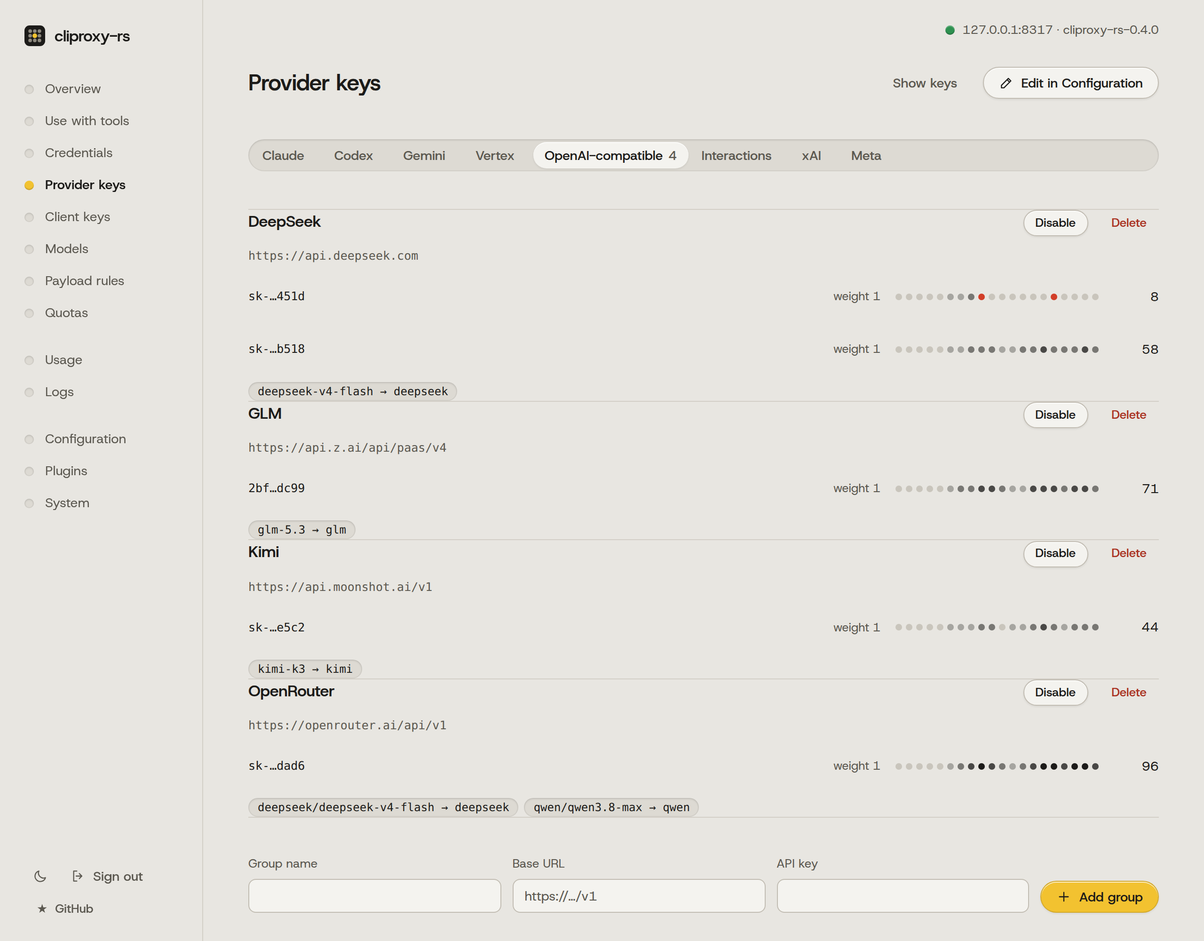
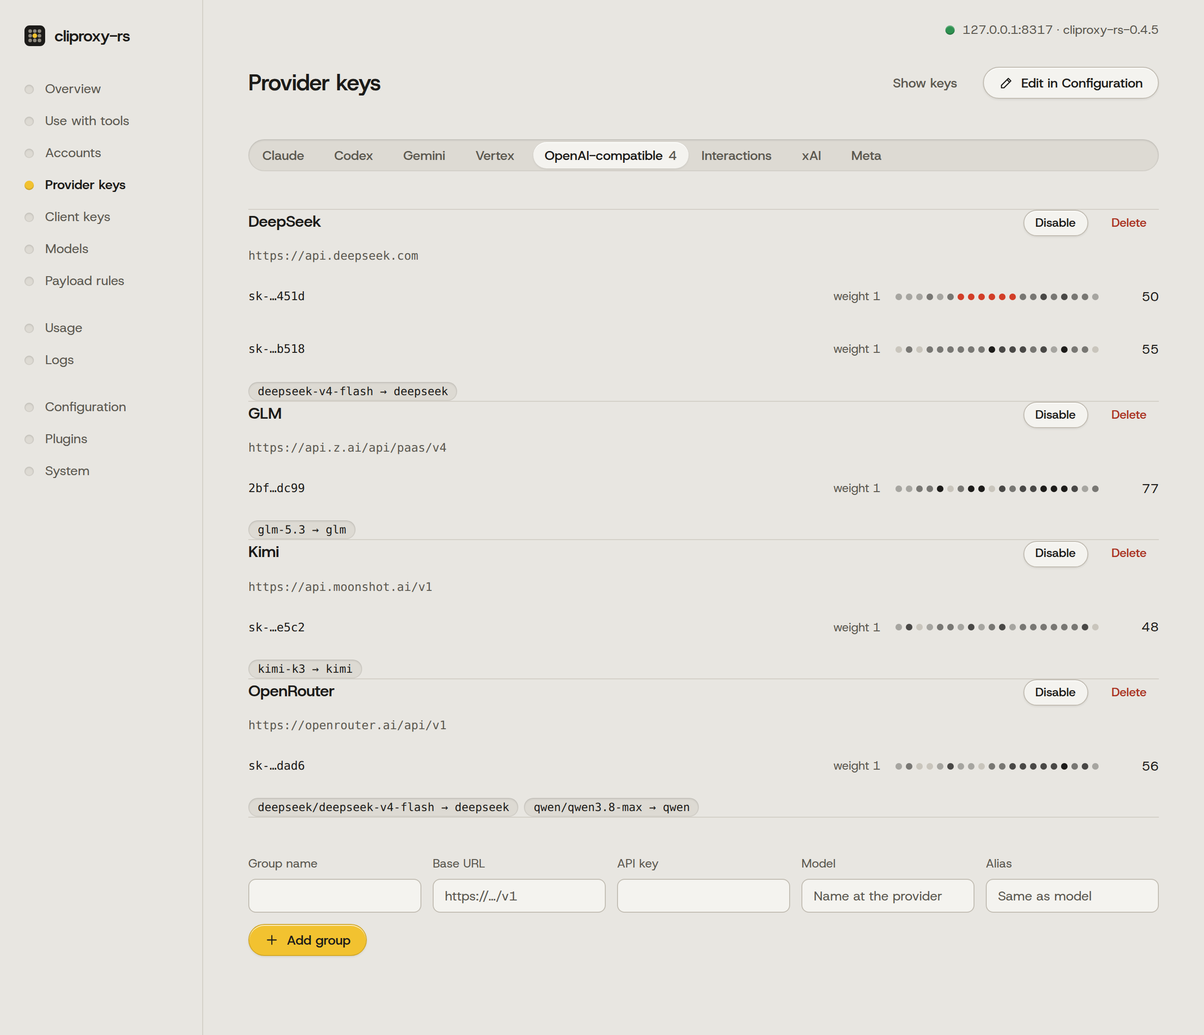
README: centered top and a dashboard quick start (#284)
The README opens with a centered header, the install command and the hero GIF,
then a four-step dashboard quick start: install, sign in, add a provider under
Provider keys, OpenAI-compatible, Add group with a model and an optional alias,
then copy the setup from Use with tools. The provider as YAML and the Codex CLI
and Claude Code setup by hand are in collapsed sections below the steps.

The dashboard pictures were retaken on 0.4.5 with demo data from a local mock;
the base URLs shown are the providers' real ones in place of the mock's. The
other-proxies table now fits the README column, with exact client API paths in
a note below it, and the is-compat note says the setting is on by default for
DeepSeek's and Kimi's official APIs. The long account of the demo recording
moved to docs/demo/README.md.

diff --git a/README.md b/README.md
@@ -1,29 +1,69 @@
-# cliproxy-rs
+<h1 align="center">cliproxy-rs</h1>
 
-[![CI](https://github.com/vayungodara/cliproxy-rs/actions/workflows/ci.yml/badge.svg)](https://github.com/vayungodara/cliproxy-rs/actions/workflows/ci.yml)
-[![Release](https://img.shields.io/github/v/release/vayungodara/cliproxy-rs)](https://github.com/vayungodara/cliproxy-rs/releases/latest)
-[![Crates.io](https://img.shields.io/crates/v/cliproxy)](https://crates.io/crates/cliproxy)
-[![Homebrew](https://img.shields.io/badge/brew-vayungodara%2Ftap%2Fcliproxy--rs-orange)](https://github.com/vayungodara/homebrew-tap)
-[![Stars](https://img.shields.io/github/stars/vayungodara/cliproxy-rs)](https://github.com/vayungodara/cliproxy-rs/stargazers)
+<p align="center">One local endpoint that lets Codex CLI and Claude Code use DeepSeek, GLM, Kimi, OpenRouter and other API keys, with API translation and failover between keys.</p>
 
-One local endpoint that lets Codex CLI and Claude Code use DeepSeek, GLM, Kimi, OpenRouter and other API keys, with API translation and failover between keys. It is a single Rust binary and reads CLIProxyAPI's `config.yaml`.
+<p align="center">
+  <a href="https://github.com/vayungodara/cliproxy-rs/actions/workflows/ci.yml"><img src="https://github.com/vayungodara/cliproxy-rs/actions/workflows/ci.yml/badge.svg" alt="CI"></a>
+  <a href="https://github.com/vayungodara/cliproxy-rs/releases/latest"><img src="https://img.shields.io/github/v/release/vayungodara/cliproxy-rs" alt="Release"></a>
+  <a href="https://crates.io/crates/cliproxy"><img src="https://img.shields.io/crates/v/cliproxy" alt="Crates.io"></a>
+  <a href="https://github.com/vayungodara/homebrew-tap"><img src="https://img.shields.io/badge/brew-vayungodara%2Ftap%2Fcliproxy--rs-orange" alt="Homebrew"></a>
+  <a href="https://github.com/vayungodara/cliproxy-rs/stargazers"><img src="https://img.shields.io/github/stars/vayungodara/cliproxy-rs" alt="Stars"></a>
+</p>
 
-[Quick start](#quick-start) · [Providers](#supported-providers) · [Tools](#use-it-with-your-tools) · [How it compares](#how-it-compares) · [Documentation](#documentation)
+<p align="center">
+  <a href="#quick-start">Quick start</a> · <a href="#supported-providers">Providers</a> · <a href="#use-it-with-your-tools">Tools</a> · <a href="#how-it-compares">How it compares</a> · <a href="#documentation">Documentation</a>
+</p>
 
 ```sh
 curl -fsSL https://raw.githubusercontent.com/vayungodara/cliproxy-rs/master/install.sh | sh
 ```
 
-That is for macOS and Linux, and it needs no `sudo` and no Rust toolchain. For Windows, Homebrew, Scoop, Cargo and Docker, see [Other ways to install](#other-ways-to-install).
+<p align="center">The command is for macOS and Linux and needs no <code>sudo</code> and no Rust toolchain. Windows, Homebrew, Scoop, Cargo and Docker are under <a href="#other-ways-to-install">Other ways to install</a>.</p>
+
+<p align="center">
+  <a href="https://github.com/vayungodara/cliproxy-rs/releases/latest"><img src="https://github.com/vayungodara/cliproxy-rs/raw/master/docs/img/hero.gif" alt="cliproxy-rs on 127.0.0.1:8317 translates a Codex CLI Responses request to Chat Completions for DeepSeek and moves it to a second key when the first answers 429. Claude Code's Messages requests reach GLM the same way. Kimi and OpenRouter are the other providers shown." width="880"></a>
+</p>
+
+## What is this?
+
+cliproxy-rs is a Rust rewrite of [CLIProxyAPI](https://github.com/router-for-me/CLIProxyAPI). It reads the same `config.yaml` and credential formats and implements the client routes and v8 Management API. Parity with CLIProxyAPI v8.0.35 is partial; [PARITY.md](https://github.com/vayungodara/cliproxy-rs/blob/master/docs/PARITY.md) has the counts and the [upstream changes since then](https://github.com/vayungodara/cliproxy-rs/blob/master/docs/PARITY.md#upstream-changes-since-v8035). CLIProxyAPI's README lists cliproxy-rs under [More choices](https://github.com/router-for-me/CLIProxyAPI#more-choices), its list of ports and projects inspired by it (read on 18 November 2026).
+
+- **API translation.** Codex CLI sends Responses requests, and the proxy sends Chat Completions to providers that only offer those, tool calls included. Claude Code's Messages requests are translated to the selected provider's format the same way.
+- **Several keys and providers behind one model name.** By default, a 429 cools that key for the model and the request moves to another ready key or provider with the same alias.
+- **One binary with the dashboard built in.** The dashboard shows provider keys and their traffic, request history and tool settings.
 
 ## Quick start
 
-1. Run the install command above. It checks the release checksum, starts the proxy on `127.0.0.1`, prints the dashboard URL and opens it when it can. The port is 8317, or the next free one up to 8336 when something else has it; `~/.cliproxy-rs/keys.env` records it as `CLIPROXY_PORT`.
-2. Add a provider and its models to `~/.cliproxy-rs/config.yaml`. Copy a provider block from [API keys](#api-keys-codex-cli-and-mixed-providers) and fill in the key and the model ID. The proxy reloads the file when you save it. An OpenAI-compatible entry needs a `models` list, and the dashboard's Provider keys form saves a name, base URL and key without one. In the dashboard, the place for the block is Configuration, then Edit YAML.
-3. Sign in to the dashboard with `CLIPROXY_MANAGEMENT_KEY` from `keys.env`, open **Use with tools** and check that your model alias is in its Model list.
-4. Give your tool the settings below and run it. The shell blocks read the port and the client key from the same `keys.env`, so the key is never sent to another server on 8317.
+1. Run the install command at the top. It checks the release checksum, starts the proxy on `127.0.0.1`, prints the dashboard URL and opens it when it can. The port is 8317, or the next free one up to 8336 when something else has it; `~/.cliproxy-rs/keys.env` records it as `CLIPROXY_PORT`, next to your keys.
+2. Open the dashboard and sign in with `CLIPROXY_MANAGEMENT_KEY` from `keys.env`.
+3. Add a provider with a model. Open **Provider keys**, choose **OpenAI-compatible** and fill in the form: a group name, the provider's base URL, your API key and the Model, which is the model's name at the provider. Alias is optional. It is the name your tools ask for, and it is the same as the model when you leave it empty. Then press **Add group**. Base URLs for DeepSeek, GLM, Kimi and OpenRouter are listed under [API keys](#api-keys-codex-cli-and-mixed-providers).
+4. Open **Use with tools**, pick the model, choose Claude Code or Codex CLI and copy the setup. It has the address you opened the dashboard at, your client key and the selected model filled in. Claude Code gets one block for your shell, which sets the variables and starts `claude`. Codex CLI gets two blocks: one for `~/.codex/config.toml`, and one `export` line to run before `codex`. For these two tools, Copy is disabled while no model is selected.
 
-The Codex CLI and Claude Code snippets on the **Use with tools** page leave the model out, so start from these. For Codex CLI and a provider whose model alias is `deepseek`, `~/.codex/config.toml` looks like this. In `base_url`, use the `CLIPROXY_PORT` value from `keys.env`; it is 8317 unless the installer found that port taken:
+<details>
+<summary>Add the provider in YAML instead</summary>
+
+Add this block to `~/.cliproxy-rs/config.yaml` and keep the rest of the file, or do the same in the dashboard under Configuration, then Edit YAML. The proxy reloads the file when you save it. An OpenAI-compatible entry serves only the models in its `models` list.
+
+```yaml
+api-keys:
+  openai-compatibility:
+    - name: deepseek
+      base-url: "https://api.deepseek.com"
+      keys:
+        - api-key: "<deepseek-api-key>"
+      models:
+        - name: "<deepseek-model-id>"
+          alias: "deepseek"
+```
+
+[API keys](#api-keys-codex-cli-and-mixed-providers) has a block with two providers and the base URLs of the others. YAML also takes what the form has no field for, such as the `headers` entry that OpenCode Go needs.
+
+</details>
+
+<details>
+<summary>Set up Codex CLI by hand</summary>
+
+For a provider whose model alias is `deepseek`, `~/.codex/config.toml` looks like this. In `base_url`, use the `CLIPROXY_PORT` value from `keys.env`; it is 8317 unless the installer found that port taken:
 
 ```toml
 model = "deepseek"
@@ -36,35 +76,48 @@ env_key = "CLIPROXY_CLIENT_KEY"
 wire_api = "responses"
 ```
 
+Then start Codex with the client key from `keys.env`:
+
 ```sh
 . ~/.cliproxy-rs/keys.env
 export CLIPROXY_CLIENT_KEY
 codex
 ```
 
-Claude Code takes environment variables, and its base URL has no `/v1`. Set `ANTHROPIC_MODEL` to one of your model aliases:
+</details>
+
+<details>
+<summary>Set up Claude Code by hand</summary>
+
+Claude Code takes environment variables, and its base URL has no `/v1`. This block reads the port and the client key from `keys.env`, so it also works when the installer chose a port other than 8317. Set `ANTHROPIC_MODEL` to one of your model aliases. `ANTHROPIC_DEFAULT_HAIKU_MODEL` sends Claude Code's Haiku and background requests to the same model. Leave that line out if your proxy serves Claude's own Haiku, for example through a connected Claude account:
 
 ```sh
 . ~/.cliproxy-rs/keys.env
 export ANTHROPIC_BASE_URL="http://127.0.0.1:${CLIPROXY_PORT}"
 export ANTHROPIC_AUTH_TOKEN="$CLIPROXY_CLIENT_KEY"
 export ANTHROPIC_MODEL="<model-alias>"
+export ANTHROPIC_DEFAULT_HAIKU_MODEL="$ANTHROPIC_MODEL"
 claude
 ```
 
-<p align="center"><img src="https://github.com/vayungodara/cliproxy-rs/raw/master/docs/img/demo.gif" alt="A terminal recording. A Responses request to cliproxy-rs on 127.0.0.1:8317 returns the provider's answer, and the provider's log shows two Chat Completions requests: the first key answered 429 and the second 200. A Messages request then returns the same answer with one more request, on the second key." width="880"></p>
-
-The recording sends a Responses request, as Codex CLI does, and a Messages request, as Claude Code does, through cliproxy-rs 0.4.2. The provider is a local stand-in that answers in the Chat Completions format and returns 429 to the first key that reaches it. It was recorded with [vhs](https://github.com/charmbracelet/vhs) from [`docs/demo/demo.tape`](https://github.com/vayungodara/cliproxy-rs/blob/master/docs/demo/demo.tape), and you can record it again without an API key; the tape's header says how to keep your own settings out of it. On 18 November 2026, the same two requests through 0.4.4 gave the same provider log. [Further down](#api-keys-codex-cli-and-mixed-providers), Codex CLI runs a task on a real provider.
-
-- **API translation.** Codex CLI sends Responses requests, and the proxy sends Chat Completions to providers that only offer those, tool calls included. Claude Code's Messages requests are translated to the selected provider's format the same way.
-- **Several keys and providers behind one model name.** By default, a 429 cools that key for the model and the request moves to another ready key or provider with the same alias.
-- **One binary with the dashboard built in.** It reads CLIProxyAPI's `config.yaml` and credential files. Parity with CLIProxyAPI v8.0.35 is partial; [PARITY.md](https://github.com/vayungodara/cliproxy-rs/blob/master/docs/PARITY.md) has the counts and the [upstream changes since then](https://github.com/vayungodara/cliproxy-rs/blob/master/docs/PARITY.md#upstream-changes-since-v8035).
+</details>
 
 > **Set it up with your coding agent.** Paste this into Claude Code, Codex or Amp on the machine where the proxy should run:
 >
 > ```text
 > Install cliproxy-rs on this machine by following https://github.com/vayungodara/cliproxy-rs/blob/master/docs/AI-SETUP.md
 > ```
+
+<p align="center">
+  <picture>
+    <source media="(prefers-color-scheme: dark)" srcset="https://github.com/vayungodara/cliproxy-rs/raw/master/docs/img/overview-dark.png">
+    <img src="https://github.com/vayungodara/cliproxy-rs/raw/master/docs/img/overview-light.png" alt="The dashboard's Provider keys page on the OpenAI-compatible tab, with demo data from a local mock provider. Four groups, DeepSeek, GLM, Kimi and OpenRouter, each list their keys and a base URL, which is the provider's real one in place of the mock's. Each key has a row of twenty dots for its requests over the last 200 minutes. One DeepSeek key has a run of red dots, where the mock answered 429. Under the groups is the Add group form with five fields: Group name, Base URL, API key, Model and Alias." width="880">
+  </picture>
+</p>
+
+<p align="center"><img src="https://github.com/vayungodara/cliproxy-rs/raw/master/docs/img/demo.gif" alt="A terminal recording. A Responses request to cliproxy-rs on 127.0.0.1:8317 returns the provider's answer, and the provider's log shows two Chat Completions requests: the first key answered 429 and the second 200. A Messages request then returns the same answer with one more request, on the second key." width="880"></p>
+
+<p align="center">A Responses and a Messages request to a stand-in provider whose first key answers 429. <a href="https://github.com/vayungodara/cliproxy-rs/blob/master/docs/demo/README.md">How it was recorded</a>.</p>
 
 ## Other ways to install
 
@@ -87,23 +140,6 @@ docker run -d --name cliproxy -p 127.0.0.1:8317:8317 -v "$PWD/data:/data" ghcr.i
 Run the install command again to upgrade, or `brew upgrade cliproxy-rs` with Homebrew. Both keep your config and keys. [INSTALL.md](https://github.com/vayungodara/cliproxy-rs/blob/master/docs/INSTALL.md) has the rest: start at login, release binaries, Docker Compose and [removing it](https://github.com/vayungodara/cliproxy-rs/blob/master/docs/INSTALL.md#removing-it). [GETTING-STARTED.md](https://github.com/vayungodara/cliproxy-rs/blob/master/docs/GETTING-STARTED.md) has the longer walkthrough.
 
 Your tools use `CLIPROXY_CLIENT_KEY`, not the management key. Instead of an API key, you can connect your own account in the dashboard. Read [Accounts and provider terms](#accounts-and-provider-terms) first.
-
-## What is this?
-
-cliproxy-rs is a Rust rewrite of [CLIProxyAPI](https://github.com/router-for-me/CLIProxyAPI). It reads the same `config.yaml` and credential formats and implements the client routes and v8 Management API. The dashboard shows provider keys and their traffic, request history and tool settings. CLIProxyAPI's README lists cliproxy-rs under [More choices](https://github.com/router-for-me/CLIProxyAPI#more-choices), its list of ports and projects inspired by it (read on 18 November 2026).
-
-<p align="center">
-  <a href="https://github.com/vayungodara/cliproxy-rs/releases/latest"><img src="https://github.com/vayungodara/cliproxy-rs/raw/master/docs/img/hero.gif" alt="cliproxy-rs on 127.0.0.1:8317 translates a Codex CLI Responses request to Chat Completions for DeepSeek and moves it to a second key when the first answers 429. Claude Code's Messages requests reach GLM the same way. Kimi and OpenRouter are the other providers shown." width="880"></a>
-</p>
-
-<p align="center">
-  <picture>
-    <source media="(prefers-color-scheme: dark)" srcset="https://github.com/vayungodara/cliproxy-rs/raw/master/docs/img/overview-dark.png">
-    <img src="https://github.com/vayungodara/cliproxy-rs/raw/master/docs/img/overview-light.png" alt="The dashboard's Provider keys page with demo data: DeepSeek, GLM, Kimi and OpenRouter API keys and their requests over the last 200 minutes. Red dots mark the 429s from one DeepSeek key; the second key took those requests." width="880">
-  </picture>
-</p>
-
-The compatibility target is CLIProxyAPI v8.0.35. Parity is incomplete: the audit has 1,951 items, with 1,053 covered, 872 partial and 26 missing. [PARITY.md](https://github.com/vayungodara/cliproxy-rs/blob/master/docs/PARITY.md) defines those counts. Upstream has released newer versions since; PARITY.md lists [the changes after v8.0.35](https://github.com/vayungodara/cliproxy-rs/blob/master/docs/PARITY.md#upstream-changes-since-v8035) that cliproxy-rs does not have yet.
 
 ## Supported providers
 
@@ -157,10 +193,12 @@ Unless otherwise noted, each cell is from the project's README (18 November 2026
 | | cliproxy-rs | [CLIProxyAPI](https://github.com/router-for-me/CLIProxyAPI) | [claude-code-router](https://github.com/musistudio/claude-code-router) | [LiteLLM](https://github.com/BerriAI/litellm) | [opencodex](https://github.com/lidge-jun/opencodex) |
 | --- | --- | --- | --- | --- | --- |
 | Language and packaging | Rust, one binary | Go, one binary ([release assets](https://github.com/router-for-me/CLIProxyAPI/releases/tag/v8.0.35)) | Node.js 22+ (npm), desktop app, Docker | Python (uv), Docker | npm with Node 18+, which bundles the Bun runtime; desktop app; Docker |
-| Client APIs | OpenAI Chat Completions and Responses, Anthropic Messages, Gemini | OpenAI including Responses, Gemini including Interactions, Claude | `/messages`, `/chat/completions`, `/responses`, `/interactions` and `/v1beta/*` ([Docker guide](https://github.com/musistudio/claude-code-router/blob/main/docker/README.md)) | `/chat/completions`, `/responses`, `/messages` and others | Responses, Chat Completions, Anthropic Messages |
-| When a key or provider fails | A 429 cools the key, and the request moves to another key or provider with the same alias | Round-robin across accounts in the README; credential retry rounds and cooldowns in [`config.example.yaml`](https://github.com/router-for-me/CLIProxyAPI/blob/v8.0.35/config.example.yaml) at v8.0.35 | Retries, credential pools, key rotation, ordered fallback models | Retries, then fallback to another model group; failing deployments cool down ([reliability docs](https://docs.litellm.ai/docs/proxy/reliability)) | Combos: failover or weighted round-robin across providers |
+| Client APIs | OpenAI Chat Completions and Responses, Anthropic Messages, Gemini | OpenAI including Responses, Gemini including Interactions, Claude | Routes for messages, chat completions, responses, interactions and `/v1beta/*`³ | Routes for chat completions, responses, messages and others³ | Responses, Chat Completions, Anthropic Messages |
+| When a key or provider fails | A 429 cools the key, and the request moves to another key or provider with the same alias | Round-robin across accounts in the README; credential retry rounds and cooldowns in the [example config](https://github.com/router-for-me/CLIProxyAPI/blob/v8.0.35/config.example.yaml) at v8.0.35 | Retries, credential pools, key rotation, ordered fallback models | Retries, then fallback to another model group; failing deployments cool down ([reliability docs](https://docs.litellm.ai/docs/proxy/reliability)) | Combos: failover or weighted round-robin across providers |
 | Built-in dashboard | Yes, in the binary | Separate project (Management Center) | Yes | Yes | Yes |
 | Reads CLIProxyAPI's config and credential files | Yes, with [partial parity](https://github.com/vayungodara/cliproxy-rs/blob/master/docs/PARITY.md) | It is the reference | Not documented | Not documented | Not documented |
+
+³ claude-code-router's [Docker guide](https://github.com/musistudio/claude-code-router/blob/main/docker/README.md) lists routes including `/messages`, `/chat/completions`, `/responses`, `/interactions` and `/v1beta/*`. LiteLLM's README lists `/chat/completions`, `/responses`, `/messages` and others.
 
 Where the others are stronger:
 
@@ -181,7 +219,7 @@ The local OpenAI base URL is `http://127.0.0.1:8317/v1`. Claude Code and Gemini 
 | Cursor, Amp | Their servers send the requests, so the proxy needs a public HTTPS address | [Cursor](https://github.com/vayungodara/cliproxy-rs/blob/master/docs/CLIENTS.md#cursor), [Amp](https://github.com/vayungodara/cliproxy-rs/blob/master/docs/CLIENTS.md#amp) |
 | OpenAI, Anthropic and Google Gen AI SDKs | Each SDK's own format | [SDKs](https://github.com/vayungodara/cliproxy-rs/blob/master/docs/CLIENTS.md#sdks) |
 
-Not every model and tool combination has been tested. For Claude Code on DeepSeek or Kimi with thinking on, add `is-compat: true` beside `name` and `alias` in the model's entry, in the `models` list of that `api-keys.openai-compatibility` provider. It is not a setting for the Kimi account sign-in. Without it, those providers refuse a tool-call turn that has no thinking text; [DIFFERENCES-FROM-GO.md](https://github.com/vayungodara/cliproxy-rs/blob/master/docs/DIFFERENCES-FROM-GO.md#additions-in-cliproxy-rs) has the details.
+Not every model and tool combination has been tested. Claude Code with thinking on needs the model's `is-compat` setting for DeepSeek and Kimi models. Without it, those providers refuse a tool-call turn that has no thinking text. The setting is on by default when the group's `base-url` is DeepSeek's or Kimi's official API. Through another host, such as OpenRouter, add `is-compat: true` beside `name` and `alias` in the model's entry, in the `models` list of that `api-keys.openai-compatibility` provider. It is not a setting for the Kimi account sign-in. [CONFIGURATION.md](https://github.com/vayungodara/cliproxy-rs/blob/master/docs/CONFIGURATION.md#api-keys) lists the official hosts, and [DIFFERENCES-FROM-GO.md](https://github.com/vayungodara/cliproxy-rs/blob/master/docs/DIFFERENCES-FROM-GO.md#additions-in-cliproxy-rs) has the details.
 
 ## API keys: Codex CLI and mixed providers
 
@@ -266,6 +304,8 @@ Personal use is still subject to each provider's terms, and providers can restri
 Each sign-in creates a file in `auth-dir`. Routing chooses among ready credentials with `soonest-reset` (the default: the account whose weekly limit resets soonest goes first), `round-robin`, `fill-first` or `weighted-round-robin`. The installer enables session affinity to keep a conversation on one account. When the setting is omitted, the server default is off. A 429 can move the request to another ready credential for that model. [MULTI-ACCOUNT.md](https://github.com/vayungodara/cliproxy-rs/blob/master/docs/MULTI-ACCOUNT.md) covers routing and access from your other machines.
 
 ## CLIProxyAPI compatibility
+
+The compatibility target is CLIProxyAPI v8.0.35. Parity is incomplete: the audit has 1,951 items, with 1,053 covered, 872 partial and 26 missing. [PARITY.md](https://github.com/vayungodara/cliproxy-rs/blob/master/docs/PARITY.md) defines those counts. Upstream has released newer versions since; PARITY.md lists [the changes after v8.0.35](https://github.com/vayungodara/cliproxy-rs/blob/master/docs/PARITY.md#upstream-changes-since-v8035) that cliproxy-rs does not have yet.
 
 Config and protocol tests check compatibility with Go CLIProxyAPI at `6fecc6e`. The bundled dashboard has tests against both servers. No third-party CLIProxyAPI app has been tested with cliproxy-rs yet.
 

diff --git a/docs/demo/README.md b/docs/demo/README.md
@@ -1,0 +1,56 @@
+# The README demo
+
+[`docs/img/demo.gif`](../img/demo.gif) is the terminal recording in the README. It sends two requests through cliproxy-rs to the model alias `demo`: a Responses request, as Codex CLI does, and a Messages request, as Claude Code does.
+
+The provider is a local stand-in, [`mock_upstream.py`](mock_upstream.py), on `127.0.0.1:8399`. It answers in the Chat Completions format. The first key that reaches it gets 429 with `Retry-After: 60` for the whole run, and any other key gets 200. It prints one line for each POST it receives, and the recording shows that log:
+
+```text
+POST /v1/chat/completions  keyA  ->  429
+POST /v1/chat/completions  keyB  ->  200
+POST /v1/chat/completions  keyB  ->  200
+```
+
+The first two lines are the Responses request: the first key answered 429, and the proxy sent the request again with the second key. The third line is the Messages request, which went to the second key because the first was still cooling.
+
+The GIF was recorded with cliproxy-rs 0.4.2. On 18 November 2026, the same two requests through 0.4.4 gave the same provider log.
+
+The README also has a recording of Codex CLI on a real provider, under [API keys](../../README.md#api-keys-codex-cli-and-mixed-providers).
+
+## Files
+
+| File | What it does |
+| --- | --- |
+| [`demo.tape`](demo.tape) | The [vhs](https://github.com/charmbracelet/vhs) script that types the commands and writes the GIF |
+| [`start.sh`](start.sh) | Starts the mock and the proxy, with the config and both logs in a temporary directory, and waits until both answer. `demo_stop` stops them and removes the directory |
+| [`config.yaml`](config.yaml) | The proxy config: the mock as one OpenAI-compatible provider, with two dummy keys behind the alias `demo` |
+| [`mock_upstream.py`](mock_upstream.py) | The stand-in provider. It needs only Python's standard library and listens on `127.0.0.1` |
+
+## Record it again
+
+You need vhs, bash, curl, jq, python3 and `cliproxy` on your `PATH`, with ports 8317 and 8399 free. vhs itself needs `ttyd` and `ffmpeg`; see [its installation notes](https://github.com/charmbracelet/vhs#installation). No API key is needed. From the repository root:
+
+```sh
+vhs docs/demo/demo.tape
+```
+
+Record in a clean environment. `start.sh` starts the proxy inside the temporary directory, so it loads no `.env` file from yours, and it unsets the variables that would make the proxy take its config from Home or a remote store. Other settings in your shell still apply.
+
+`start.sh` returns non-zero, with nothing left running, when a file or the binary is missing, a port is taken, or the proxy and the mock do not both answer. The tape's shell exits in that case.
+
+## Run it without vhs
+
+From the repository root, start the demo, send the first request and read the provider's log, which then has the first two lines above. The parentheses run it in a subshell, so a failed start stops there and the demo's client key does not stay in your shell:
+
+```sh
+(
+  . docs/demo/start.sh || exit 1
+  curl -s 127.0.0.1:8317/v1/responses \
+    -H "Authorization: Bearer $CLIPROXY_CLIENT_KEY" \
+    --json '{"model":"demo","input":"Say hello"}'
+  echo
+  cat "$UPSTREAM_LOG"
+  demo_stop
+)
+```
+
+Set `CLIPROXY_BIN` to use a binary that is not on your `PATH`.
